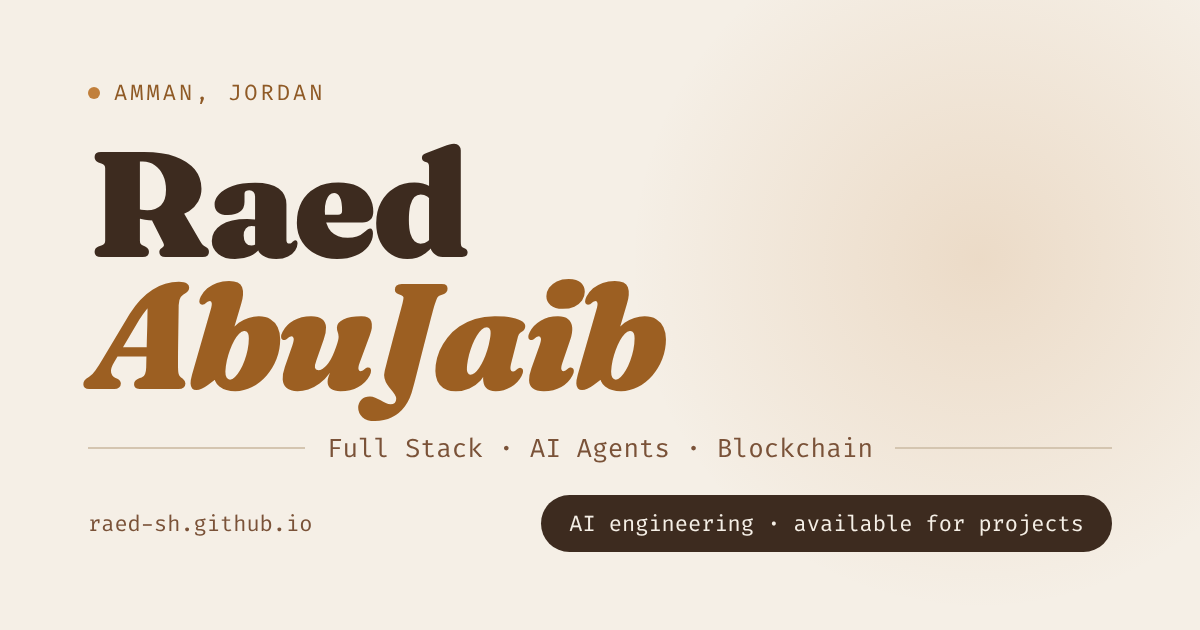
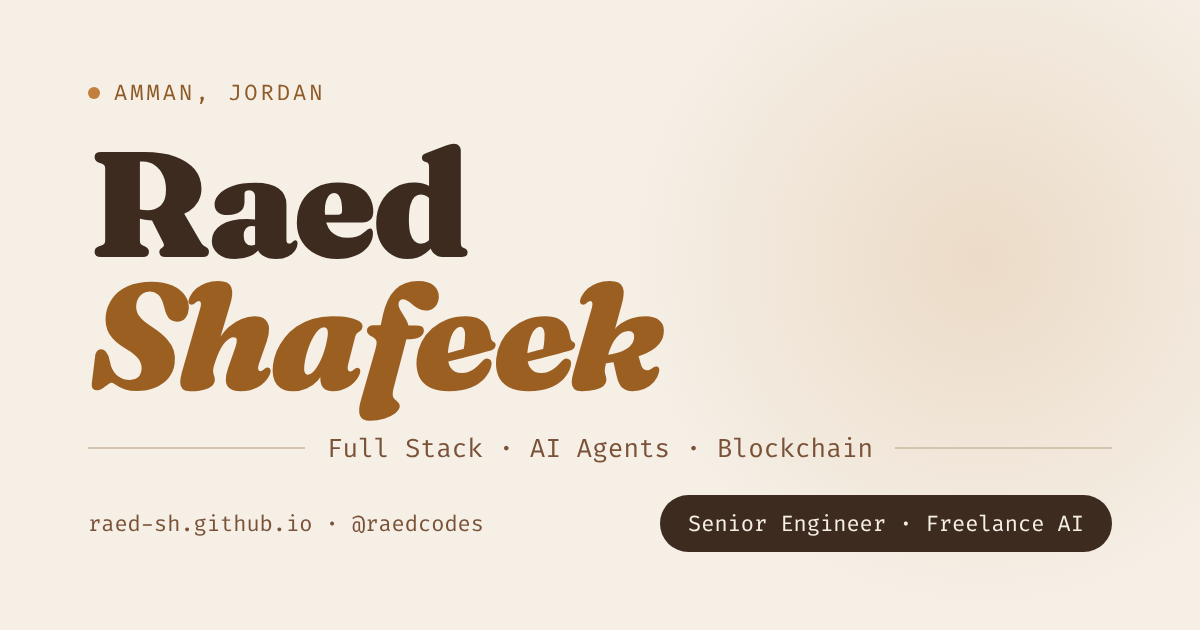
Rename to Raed Shafeek; add Sager Drone, Instagram (Raed Codes), llms.txt
- Name standardized to "Raed Shafeek" across hero, titles, metadata, share image, manifest, 404; Arabic name رائد شفيق shown under the hero name
- Status: Senior Software Engineer @ Sager Drone, plus freelance AI engineering and CarTech
- Instagram @raedcodes added to contact cards and footer; Raed Codes mentioned in contact copy
- Person schema: alternateName (رائد شفيق, Raed Codes, Raed AbuJaib...), worksFor Sager Drone, sameAs LinkedIn/Instagram/GitHub; rel="me" profile links
- llms.txt summary for AI assistants

Claude-Session: https://claude.ai/code/session_019SHYvNehJ6tKCe4UrnP2h2

Changed region(s): [[0.0617, 0.4222, 0.555, 0.6635], [0.4317, 0.7841, 0.925, 0.8746], [0.2775, 0.8143, 0.4008, 0.8444]]

diff --git a/index.html b/index.html
@@ -3,12 +3,15 @@
 <head>
 <meta charset="UTF-8"/>
 <meta name="viewport" content="width=device-width, initial-scale=1.0"/>
-<meta name="description" content="Raed AbuJaib — Senior Full Stack, AI & Blockchain engineer in Amman, Jordan. Freelance LLM apps, AI agents and architecture consulting; founder of CarTech."/>
-<meta name="author" content="Raed AbuJaib"/>
+<meta name="description" content="Raed Shafeek (رائد شفيق, Raed Codes) — Senior Software Engineer at Sager Drone and freelance AI engineer in Amman, Jordan. LLM apps, AI agents, full stack and blockchain; founder of CarTech."/>
+<meta name="author" content="Raed Shafeek"/>
 <meta name="theme-color" content="#F5EFE6" media="(prefers-color-scheme: light)"/>
 <meta name="theme-color" content="#17110D" media="(prefers-color-scheme: dark)"/>
 <link rel="canonical" href="https://raed-sh.github.io/"/>
-<title>Raed AbuJaib — Full Stack &amp; AI Engineer</title>
+<link rel="me" href="https://www.linkedin.com/in/raed-shafeek/"/>
+<link rel="me" href="https://www.instagram.com/raedcodes"/>
+<link rel="me" href="https://github.com/Raed-sh"/>
+<title>Raed Shafeek — Software &amp; AI Engineer | Raed Codes</title>
 
 <link rel="icon" href="favicon.ico" sizes="any"/>
 <link rel="icon" href="assets/favicon.svg" type="image/svg+xml"/>
@@ -17,30 +20,33 @@
 
 <meta property="og:type" content="website"/>
 <meta property="og:url" content="https://raed-sh.github.io/"/>
-<meta property="og:site_name" content="Raed AbuJaib"/>
-<meta property="og:title" content="Raed AbuJaib — Full Stack · AI · Blockchain"/>
-<meta property="og:description" content="Senior engineer with 6+ years building secure, scalable platforms. Freelance AI engineering and founder of CarTech."/>
+<meta property="og:site_name" content="Raed Shafeek"/>
+<meta property="og:title" content="Raed Shafeek — Software &amp; AI Engineer"/>
+<meta property="og:description" content="Senior Software Engineer at Sager Drone, freelance AI engineer, and founder of CarTech. 6+ years building secure, scalable platforms."/>
 <meta property="og:image" content="https://raed-sh.github.io/assets/og-image.png"/>
 <meta property="og:image:width" content="1200"/>
 <meta property="og:image:height" content="630"/>
-<meta property="og:image:alt" content="Raed AbuJaib — Full Stack, AI Agents, Blockchain — Amman, Jordan"/>
+<meta property="og:image:alt" content="Raed Shafeek — Full Stack, AI Agents, Blockchain — Amman, Jordan"/>
 <meta name="twitter:card" content="summary_large_image"/>
-<meta name="twitter:title" content="Raed AbuJaib — Full Stack · AI · Blockchain"/>
-<meta name="twitter:description" content="Senior engineer with 6+ years building secure, scalable platforms. Freelance AI engineering and founder of CarTech."/>
+<meta name="twitter:title" content="Raed Shafeek — Software &amp; AI Engineer"/>
+<meta name="twitter:description" content="Senior Software Engineer at Sager Drone, freelance AI engineer, and founder of CarTech. 6+ years building secure, scalable platforms."/>
 <meta name="twitter:image" content="https://raed-sh.github.io/assets/og-image.png"/>
 
 <script type="application/ld+json">
 {
   "@context": "https://schema.org",
   "@type": "Person",
-  "name": "Raed AbuJaib",
+  "name": "Raed Shafeek",
+  "alternateName": ["رائد شفيق", "Raed Codes", "raedcodes", "Raed Shafeek AbuJaib", "Raed AbuJaib"],
   "url": "https://raed-sh.github.io/",
   "image": "https://raed-sh.github.io/assets/og-image.png",
-  "jobTitle": "Full Stack & AI Engineer",
+  "jobTitle": "Senior Software Engineer",
+  "worksFor": { "@type": "Organization", "name": "Sager Drone" },
+  "description": "Senior Software Engineer at Sager Drone and freelance AI engineer in Amman, Jordan. Builds LLM apps, AI agents, full-stack platforms and Hyperledger Fabric networks. Founder of CarTech. Shares engineering tips in Arabic as Raed Codes.",
   "email": "mailto:raedsh.work@gmail.com",
   "address": { "@type": "PostalAddress", "addressLocality": "Amman", "addressCountry": "JO" },
   "knowsAbout": ["Full Stack Development", "AI Agents", "Large Language Models", "Hyperledger Fabric", "Blockchain", "NestJS", "Next.js", "FastAPI", "ISO 27001", "GRC"],
-  "sameAs": ["https://github.com/Raed-sh", "https://www.linkedin.com/in/raed-shafeek/"]
+  "sameAs": ["https://www.linkedin.com/in/raed-shafeek/", "https://www.instagram.com/raedcodes", "https://github.com/Raed-sh"]
 }
 </script>
 <link rel="preconnect" href="https://fonts.googleapis.com"/>
@@ -85,6 +91,7 @@ nav{position:fixed;top:0;left:0;right:0;z-index:100;display:flex;align-items:cen
 @keyframes pulse{0%,100%{opacity:1;transform:scale(1);}50%{opacity:0.4;transform:scale(0.8);}}
 .hero-name{font-family:var(--font-serif);font-weight:900;font-size:clamp(3.8rem,7vw,6rem);line-height:0.9;letter-spacing:-0.03em;color:var(--brown);margin-bottom:0.4rem;}
 .hero-name .line2{display:block;color:var(--ochre-display);font-style:italic;}
+.hero-ar{font-family:"IBM Plex Sans Arabic","Noto Sans Arabic",Tahoma,sans-serif;font-size:1.35rem;font-weight:600;color:var(--brown3);margin-top:0.9rem;text-align:left;}
 .hero-rule{display:flex;align-items:center;gap:1rem;margin:2rem 0 1.75rem;}
 .hero-rule-line{flex:1;height:1px;background:var(--border);}
 .hero-rule-text{font-family:var(--font-mono);font-size:0.72rem;color:var(--brown3);letter-spacing:0.05em;white-space:nowrap;}
@@ -201,6 +208,7 @@ div.pc:hover{transform:none;}
 .ccard-ico svg{width:18px;height:18px;fill:currentColor;}
 .ccard-ico.o{background:rgba(193,127,59,0.2);color:var(--ochre2);}
 .ccard-ico.n{background:rgba(28,46,74,0.4);color:#7BA4D4;}
+.ccard-ico.ig{background:rgba(193,127,59,0.2);color:var(--ochre2);}
 .ccard-ico.gh{background:rgba(245,239,230,0.1);color:rgba(245,239,230,0.7);}
 .ccard-lbl{font-family:var(--font-mono);font-size:0.68rem;letter-spacing:0.08em;text-transform:uppercase;color:rgba(245,239,230,0.65);margin-bottom:0.2rem;}
 .ccard-val{font-size:0.9rem;color:var(--on-ink);font-weight:500;}
@@ -216,7 +224,7 @@ footer{background:var(--ink);border-top:1px solid rgba(245,239,230,0.08);padding
 /* ANIMATIONS */
 @keyframes fadeUp{from{opacity:0;transform:translateY(16px);}to{opacity:1;transform:translateY(0);}}
 .hero-left>*{animation:fadeUp 0.6s ease both;}
-.hero-eyebrow{animation-delay:.05s;}.hero-name{animation-delay:.1s;}.hero-rule{animation-delay:.15s;}.hero-desc{animation-delay:.2s;}.hero-actions{animation-delay:.25s;}
+.hero-eyebrow{animation-delay:.05s;}.hero-name{animation-delay:.1s;}.hero-ar{animation-delay:.12s;}.hero-rule{animation-delay:.15s;}.hero-desc{animation-delay:.2s;}.hero-actions{animation-delay:.25s;}
 .hero-right{animation:fadeUp 0.7s .12s ease both;}
 
 /* RESPONSIVE */
@@ -299,13 +307,14 @@ section[id],div[id]{scroll-margin-top:5rem;}
 <section class="hero" id="home">
   <div class="hero-left">
     <div class="hero-eyebrow"><span class="hero-eyebrow-dot"></span>Based in Amman, Jordan</div>
-    <h1 class="hero-name">Raed<span class="line2">AbuJaib</span></h1>
+    <h1 class="hero-name">Raed<span class="line2">Shafeek</span></h1>
+    <p class="hero-ar" lang="ar" dir="rtl">رائد شفيق</p>
     <div class="hero-rule">
       <div class="hero-rule-line"></div>
       <span class="hero-rule-text">Full Stack · Blockchain · AI · Web3</span>
       <div class="hero-rule-line"></div>
     </div>
-    <p class="hero-desc">Senior engineer with <strong>6+ years</strong> building secure, scalable platforms — cybersecurity compliance systems, <strong>Hyperledger Fabric</strong> networks, <strong>AI agents &amp; LLM apps</strong>, and full digital products. Founding engineer, solo builder, and now founder of <strong>CarTech</strong>. I ship systems that last.</p>
+    <p class="hero-desc">Senior engineer with <strong>6+ years</strong> building secure, scalable platforms — cybersecurity compliance systems, <strong>Hyperledger Fabric</strong> networks, <strong>AI agents &amp; LLM apps</strong>, and full digital products. Now a senior engineer at <strong>Sager Drone</strong>, freelancing on AI projects, and founder of <strong>CarTech</strong>. I ship systems that last.</p>
     <div class="hero-actions">
       <a href="#projects" class="btn-warm">view my work ↓</a>
       <a href="mailto:raedsh.work@gmail.com" class="btn-ghost">get in touch →</a>
@@ -313,14 +322,16 @@ section[id],div[id]{scroll-margin-top:5rem;}
   </div>
   <div class="hero-right">
     <div class="profile-card">
-      <div class="avatar" aria-hidden="true">RA</div>
+      <div class="avatar" aria-hidden="true">RS</div>
       <div class="pc-label">Currently</div>
-      <div class="pc-val">Independent · Freelance AI engineering &amp; founder of CarTech</div>
+      <div class="pc-val">Senior Software Engineer @ Sager Drone</div>
+      <div class="pc-label">Also</div>
+      <div class="pc-val">Freelance AI engineering · Founder of CarTech</div>
       <div class="pc-label">Previously</div>
       <div class="pc-val">Founding Full Stack Engineer @ Vamu, USA (3+ yrs)</div>
       <div class="pc-label">Location</div>
       <div class="pc-val" style="margin-bottom:1.5rem;">Amman, Jordan</div>
-      <div class="avail"><span class="avail-dot"></span>Available for new projects</div>
+      <div class="avail"><span class="avail-dot"></span>Open to freelance projects</div>
     </div>
     <div class="stat-row">
       <div class="stat-box"><div class="stat-num">6<span>+</span></div><div class="stat-lbl">Years exp.</div></div>
@@ -505,7 +516,7 @@ section[id],div[id]{scroll-margin-top:5rem;}
     <div>
       <div class="eyebrow" style="color:var(--ochre2);">Let's collaborate</div>
       <h2 class="c-title">Got something<br><span>interesting?</span></h2>
-      <p class="c-sub">Open to freelance engagements, full-time roles, and technically ambitious projects. I reply within 24 hours.</p>
+      <p class="c-sub">Open to freelance engagements and technically ambitious projects. I reply within 24 hours. I also share practical engineering tips in Arabic on Instagram as <strong style="color:var(--on-ink);font-weight:600;">Raed Codes</strong>.</p>
       <a href="mailto:raedsh.work@gmail.com" class="btn-warm">send an email →</a>
     </div>
     <div class="c-cards">
@@ -517,9 +528,13 @@ section[id],div[id]{scroll-margin-top:5rem;}
         <div class="ccard-ico gh"><svg viewBox="0 0 24 24"><path d="M12 0C5.37 0 0 5.37 0 12c0 5.31 3.435 9.795 8.205 11.385.6.105.825-.255.825-.57 0-.285-.015-1.23-.015-2.235-3.015.555-3.795-.735-4.035-1.41-.135-.345-.72-1.41-1.23-1.695-.42-.225-1.02-.78-.015-.795.945-.015 1.62.87 1.845 1.23 1.08 1.815 2.805 1.305 3.495.99.105-.78.42-1.305.765-1.605-2.67-.3-5.46-1.335-5.46-5.925 0-1.305.465-2.385 1.23-3.225-.12-.3-.54-1.53.12-3.18 0 0 1.005-.315 3.3 1.23.96-.27 1.98-.405 3-.405s2.04.135 3 .405c2.295-1.56 3.3-1.23 3.3-1.23.66 1.65.24 2.88.12 3.18.765.84 1.23 1.905 1.23 3.225 0 4.605-2.805 5.625-5.475 5.925.435.375.81 1.095.81 2.22 0 1.605-.015 2.895-.015 3.3 0 .315.225.69.825.57A12.02 12.02 0 0 0 24 12c0-6.63-5.37-12-12-12z"/></svg></div>
         <div><div class="ccard-lbl">GitHub</div><div class="ccard-val">github.com/Raed-sh</div></div>
       </a>
-      <a href="https://www.linkedin.com/in/raed-shafeek/" target="_blank" rel="noopener" class="ccard">
+      <a href="https://www.linkedin.com/in/raed-shafeek/" target="_blank" rel="noopener me" class="ccard">
         <div class="ccard-ico n"><svg viewBox="0 0 24 24"><path d="M20.447 20.452h-3.554v-5.569c0-1.328-.027-3.037-1.852-3.037-1.853 0-2.136 1.445-2.136 2.939v5.667H9.351V9h3.414v1.561h.046c.477-.9 1.637-1.85 3.37-1.85 3.601 0 4.267 2.37 4.267 5.455v6.286zM5.337 7.433a2.062 2.062 0 0 1-2.063-2.065 2.064 2.064 0 1 1 2.063 2.065zm1.782 13.019H3.555V9h3.564v11.452zM22.225 0H1.771C.792 0 0 .774 0 1.729v20.542C0 23.227.792 24 1.771 24h20.451C23.2 24 24 23.227 24 22.271V1.729C24 .774 23.2 0 22.222 0h.003z"/></svg></div>
         <div><div class="ccard-lbl">LinkedIn</div><div class="ccard-val">linkedin.com/in/raed-shafeek</div></div>
+      </a>
+      <a href="https://www.instagram.com/raedcodes" target="_blank" rel="noopener me" class="ccard">
+        <div class="ccard-ico ig"><svg viewBox="0 0 24 24"><path d="M12 2.16c3.2 0 3.58.01 4.85.07 1.17.05 1.8.25 2.23.41.56.22.96.48 1.38.9.42.42.68.82.9 1.38.16.42.36 1.06.41 2.23.06 1.27.07 1.65.07 4.85s-.01 3.58-.07 4.85c-.05 1.17-.25 1.8-.41 2.23-.22.56-.48.96-.9 1.38-.42.42-.82.68-1.38.9-.42.16-1.06.36-2.23.41-1.27.06-1.65.07-4.85.07s-3.58-.01-4.85-.07c-1.17-.05-1.8-.25-2.23-.41a3.72 3.72 0 0 1-1.38-.9 3.72 3.72 0 0 1-.9-1.38c-.16-.42-.36-1.06-.41-2.23C2.17 15.58 2.16 15.2 2.16 12s.01-3.58.07-4.85c.05-1.17.25-1.8.41-2.23.22-.56.48-.96.9-1.38.42-.42.82-.68 1.38-.9.42-.16 1.06-.36 2.23-.41C8.42 2.17 8.8 2.16 12 2.16M12 0C8.74 0 8.33.01 7.05.07 5.78.13 4.9.33 4.14.63a5.88 5.88 0 0 0-2.13 1.38A5.88 5.88 0 0 0 .63 4.14C.33 4.9.13 5.78.07 7.05.01 8.33 0 8.74 0 12s.01 3.67.07 4.95c.06 1.27.26 2.15.56 2.91.31.79.72 1.46 1.38 2.13a5.88 5.88 0 0 0 2.13 1.38c.76.3 1.64.5 2.91.56C8.33 23.99 8.74 24 12 24s3.67-.01 4.95-.07c1.27-.06 2.15-.26 2.91-.56a5.88 5.88 0 0 0 2.13-1.38 5.88 5.88 0 0 0 1.38-2.13c.3-.76.5-1.64.56-2.91.06-1.28.07-1.69.07-4.95s-.01-3.67-.07-4.95c-.06-1.27-.26-2.15-.56-2.91a5.88 5.88 0 0 0-1.38-2.13A5.88 5.88 0 0 0 19.86.63C19.1.33 18.22.13 16.95.07 15.67.01 15.26 0 12 0zm0 5.84a6.16 6.16 0 1 0 0 12.32 6.16 6.16 0 0 0 0-12.32zM12 16a4 4 0 1 1 0-8 4 4 0 0 1 0 8zm6.4-11.85a1.44 1.44 0 1 0 0 2.88 1.44 1.44 0 0 0 0-2.88z"/></svg></div>
+        <div><div class="ccard-lbl">Instagram · Raed Codes</div><div class="ccard-val">@raedcodes</div></div>
       </a>
       <a href="tel:+962791082239" class="ccard">
         <div class="ccard-ico o"><svg viewBox="0 0 24 24"><path d="M6.62 10.79c1.44 2.83 3.76 5.14 6.59 6.59l2.2-2.2c.27-.27.67-.36 1.02-.24 1.12.37 2.33.57 3.57.57.55 0 1 .45 1 1V20c0 .55-.45 1-1 1-9.39 0-17-7.61-17-17 0-.55.45-1 1-1h3.5c.55 0 1 .45 1 1 0 1.25.2 2.45.57 3.57.11.35.03.74-.25 1.02l-2.2 2.2z"/></svg></div>
@@ -533,7 +548,7 @@ section[id],div[id]{scroll-margin-top:5rem;}
 
 <!-- FOOTER -->
 <footer>
-  <span class="f-copy">© 2026 Raed Shafeek AbuJaib — Amman, Jordan</span>
+  <span class="f-copy">© 2026 Raed Shafeek · Raed Codes — Amman, Jordan</span>
   <div class="f-links">
     <a href="#home">top</a>
     <a href="#skills">skills</a>
@@ -543,6 +558,7 @@ section[id],div[id]{scroll-margin-top:5rem;}
       <svg viewBox="0 0 24 24"><path d="M12 0C5.37 0 0 5.37 0 12c0 5.31 3.435 9.795 8.205 11.385.6.105.825-.255.825-.57 0-.285-.015-1.23-.015-2.235-3.015.555-3.795-.735-4.035-1.41-.135-.345-.72-1.41-1.23-1.695-.42-.225-1.02-.78-.015-.795.945-.015 1.62.87 1.845 1.23 1.08 1.815 2.805 1.305 3.495.99.105-.78.42-1.305.765-1.605-2.67-.3-5.46-1.335-5.46-5.925 0-1.305.465-2.385 1.23-3.225-.12-.3-.54-1.53.12-3.18 0 0 1.005-.315 3.3 1.23.96-.27 1.98-.405 3-.405s2.04.135 3 .405c2.295-1.56 3.3-1.23 3.3-1.23.66 1.65.24 2.88.12 3.18.765.84 1.23 1.905 1.23 3.225 0 4.605-2.805 5.625-5.475 5.925.435.375.81 1.095.81 2.22 0 1.605-.015 2.895-.015 3.3 0 .315.225.69.825.57A12.02 12.02 0 0 0 24 12c0-6.63-5.37-12-12-12z"/></svg>
       github
     </a>
+    <a href="https://www.instagram.com/raedcodes" target="_blank" rel="noopener"><svg viewBox="0 0 24 24"><path d="M12 2.16c3.2 0 3.58.01 4.85.07 1.17.05 1.8.25 2.23.41.56.22.96.48 1.38.9.42.42.68.82.9 1.38.16.42.36 1.06.41 2.23.06 1.27.07 1.65.07 4.85s-.01 3.58-.07 4.85c-.05 1.17-.25 1.8-.41 2.23-.22.56-.48.96-.9 1.38-.42.42-.82.68-1.38.9-.42.16-1.06.36-2.23.41-1.27.06-1.65.07-4.85.07s-3.58-.01-4.85-.07c-1.17-.05-1.8-.25-2.23-.41a3.72 3.72 0 0 1-1.38-.9 3.72 3.72 0 0 1-.9-1.38c-.16-.42-.36-1.06-.41-2.23C2.17 15.58 2.16 15.2 2.16 12s.01-3.58.07-4.85c.05-1.17.25-1.8.41-2.23.22-.56.48-.96.9-1.38.42-.42.82-.68 1.38-.9.42-.16 1.06-.36 2.23-.41C8.42 2.17 8.8 2.16 12 2.16M12 0C8.74 0 8.33.01 7.05.07 5.78.13 4.9.33 4.14.63a5.88 5.88 0 0 0-2.13 1.38A5.88 5.88 0 0 0 .63 4.14C.33 4.9.13 5.78.07 7.05.01 8.33 0 8.74 0 12s.01 3.67.07 4.95c.06 1.27.26 2.15.56 2.91.31.79.72 1.46 1.38 2.13a5.88 5.88 0 0 0 2.13 1.38c.76.3 1.64.5 2.91.56C8.33 23.99 8.74 24 12 24s3.67-.01 4.95-.07c1.27-.06 2.15-.26 2.91-.56a5.88 5.88 0 0 0 2.13-1.38 5.88 5.88 0 0 0 1.38-2.13c.3-.76.5-1.64.56-2.91.06-1.28.07-1.69.07-4.95s-.01-3.67-.07-4.95c-.06-1.27-.26-2.15-.56-2.91a5.88 5.88 0 0 0-1.38-2.13A5.88 5.88 0 0 0 19.86.63C19.1.33 18.22.13 16.95.07 15.67.01 15.26 0 12 0zm0 5.84a6.16 6.16 0 1 0 0 12.32 6.16 6.16 0 0 0 0-12.32zM12 16a4 4 0 1 1 0-8 4 4 0 0 1 0 8zm6.4-11.85a1.44 1.44 0 1 0 0 2.88 1.44 1.44 0 0 0 0-2.88z"/></svg>instagram</a>
     <a href="#contact">contact</a>
   </div>
 </footer>

diff --git a/404.html b/404.html
@@ -4,7 +4,7 @@
 <meta charset="UTF-8"/>
 <meta name="viewport" content="width=device-width, initial-scale=1.0"/>
 <meta name="robots" content="noindex"/>
-<title>Page not found — Raed AbuJaib</title>
+<title>Page not found — Raed Shafeek</title>
 <link rel="icon" href="/favicon.ico" sizes="any"/>
 <link rel="icon" href="/assets/favicon.svg" type="image/svg+xml"/>
 <link rel="preconnect" href="https://fonts.googleapis.com"/>
